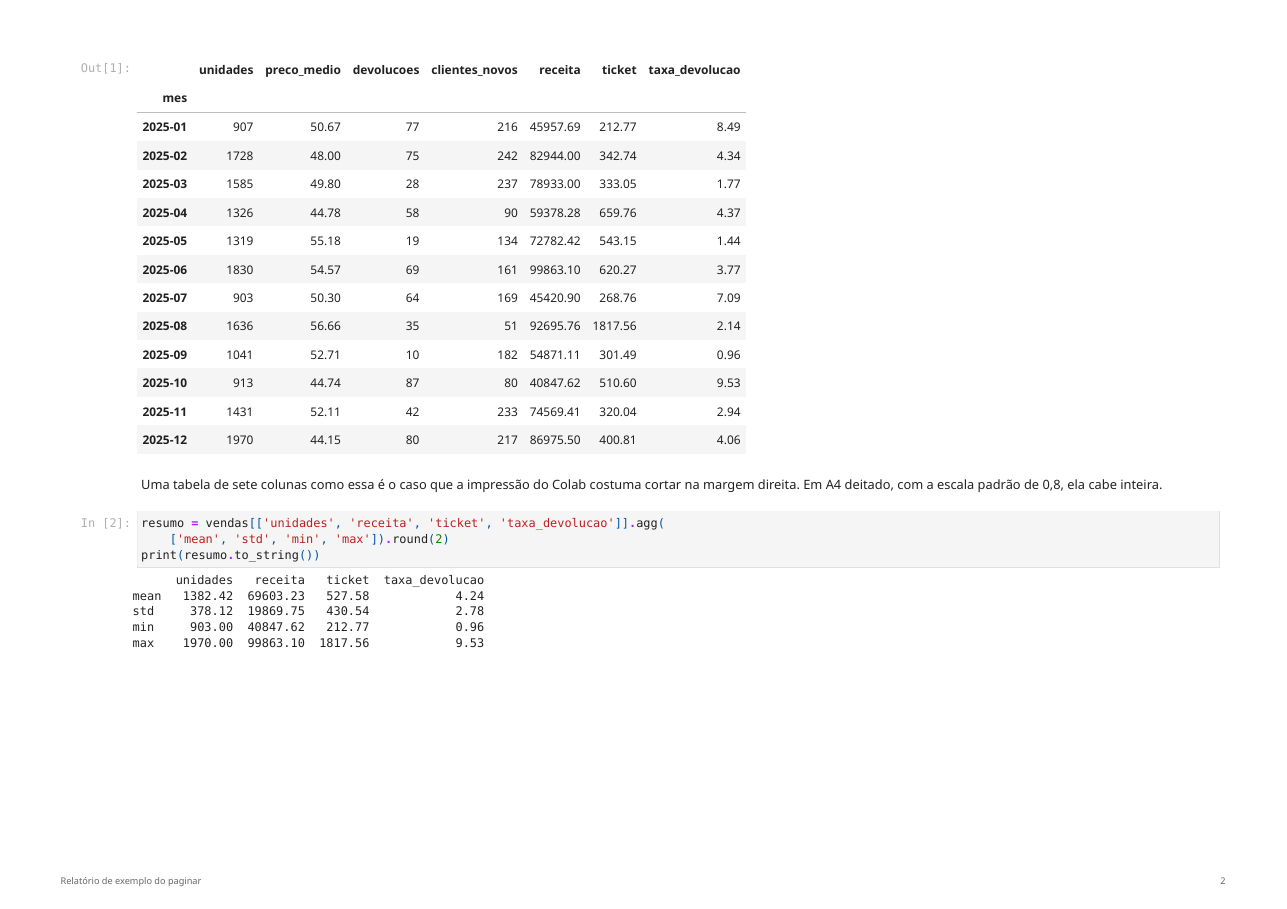
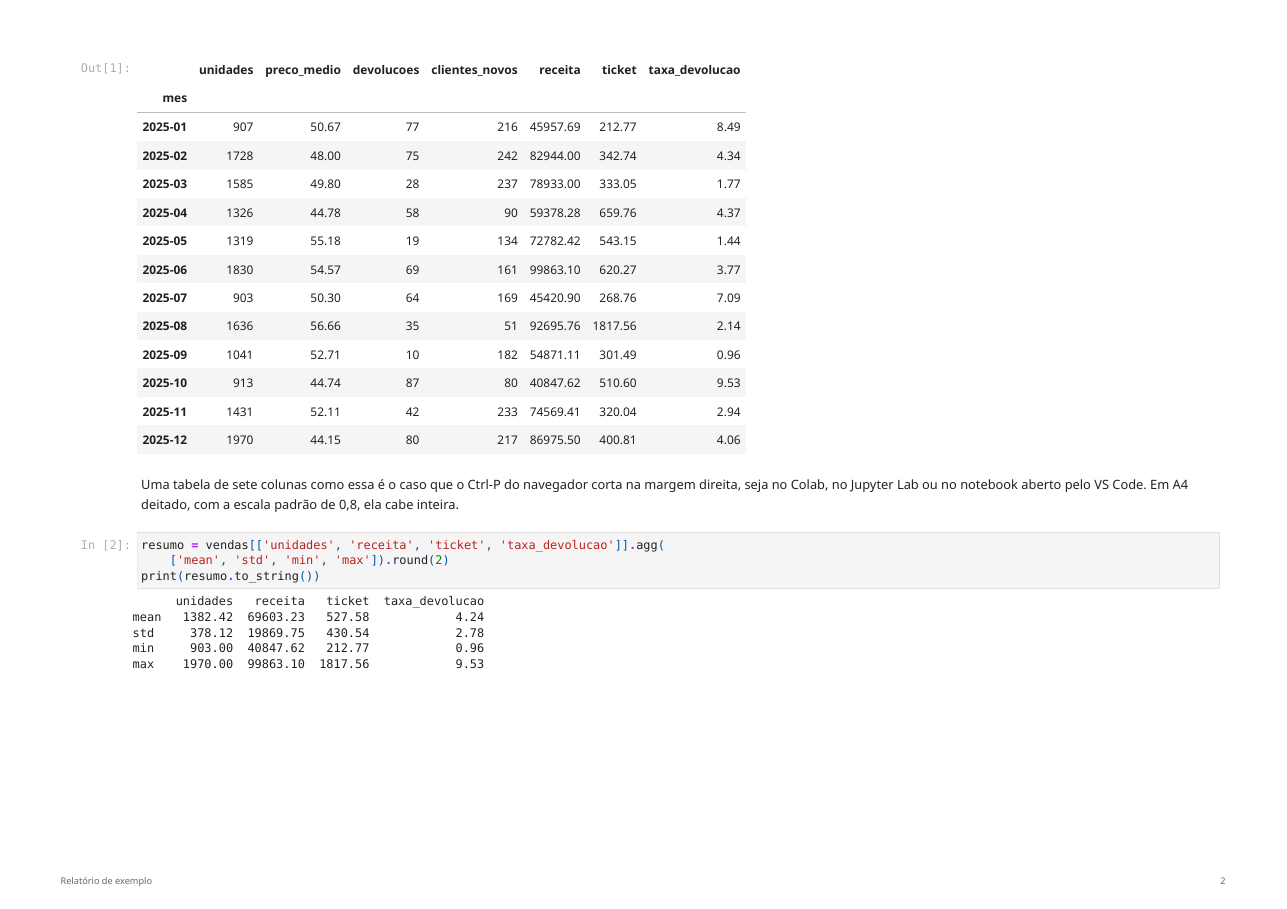
tira o Colab do centro do exemplo
Colab é um caso, não o caso: o mesmo corte na margem direita acontece no
Jupyter Lab e no notebook aberto pelo VS Code, porque todos terminam no
mesmo diálogo de impressão do Chromium sem CSS de página. O README e o
notebook passam a dizer isso.

O título do notebook volta a ser "Relatório de exemplo": o nome da
ferramenta no meio dele só existia por causa do rename automático. PDF e
print refeitos a partir daí.

Changed region(s): [[0.0932, 0.5237, 0.9324, 0.7393], [0.1243, 0.9549, 0.1554, 0.9857]]

diff --git a/README.md b/README.md
@@ -3,13 +3,15 @@
 # paginar
 
 Converte notebook Jupyter, ou HTML pronto, em PDF paginado direto do terminal,
-sem LaTeX e sem passar pela impressão do Colab.
+sem LaTeX e sem depender do Ctrl-P do navegador.
 
 ## Por que
 
-Imprimir notebook pelo navegador corta tabela larga na margem direita, parte
-figura no meio da página e não numera folha. Exportar por LaTeX resolve, mas
-pede uma instalação de TeX inteira só para isso.
+O Ctrl-P corta tabela larga na margem direita, parte figura no meio da página e
+não numera folha. Vale para o Colab, para o Jupyter Lab, para o notebook aberto
+no VS Code e para qualquer outro que termine no diálogo de impressão do
+Chromium sem CSS de página. Exportar por LaTeX resolve, mas pede uma instalação
+de TeX inteira só para isso.
 
 O `paginar` renderiza o notebook em HTML, injeta um CSS de impressão e manda o
 Chromium do Playwright imprimir. A folha sai em A4 deitado, a tabela cabe, a
